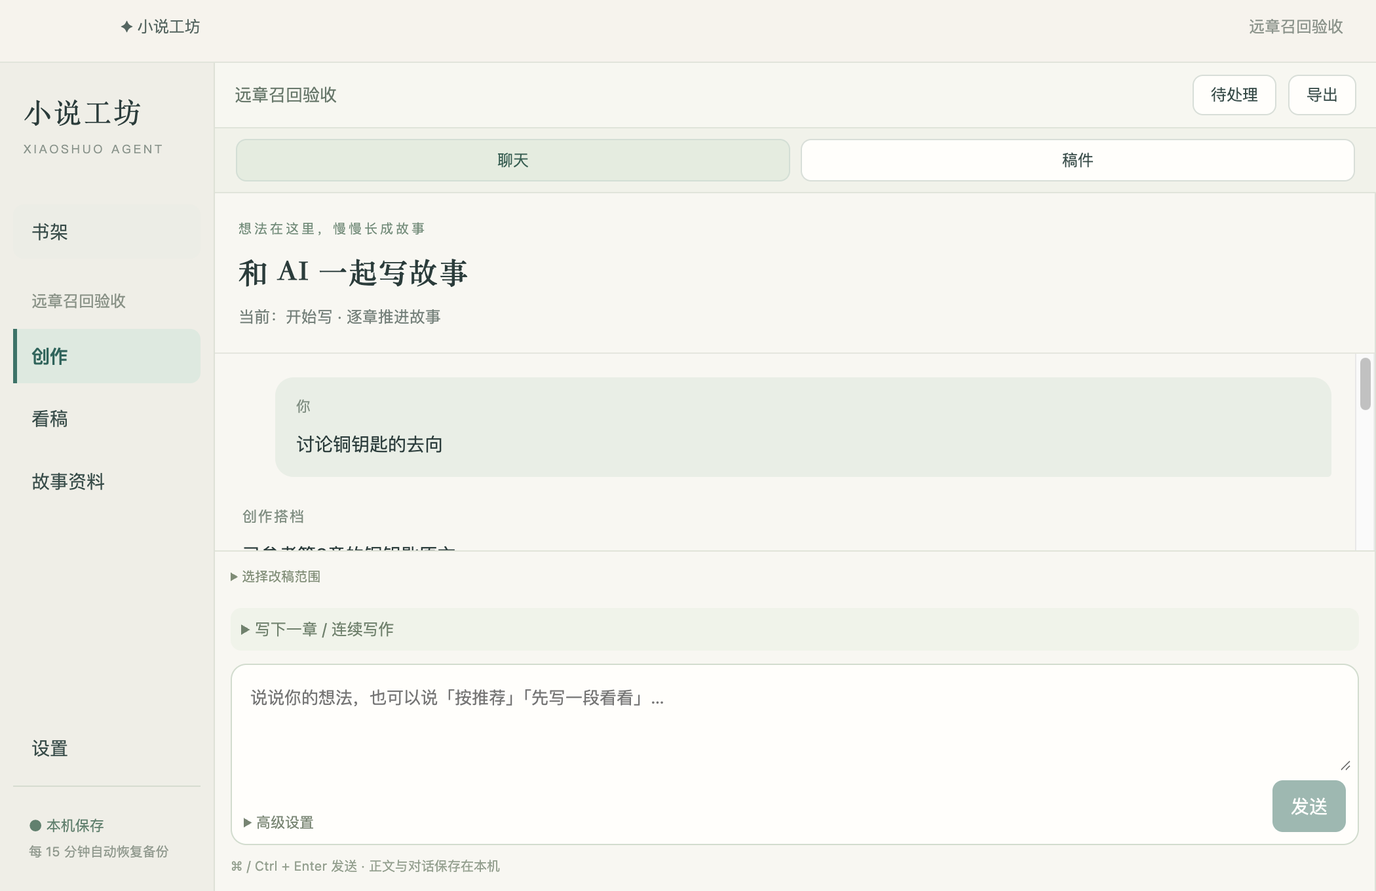
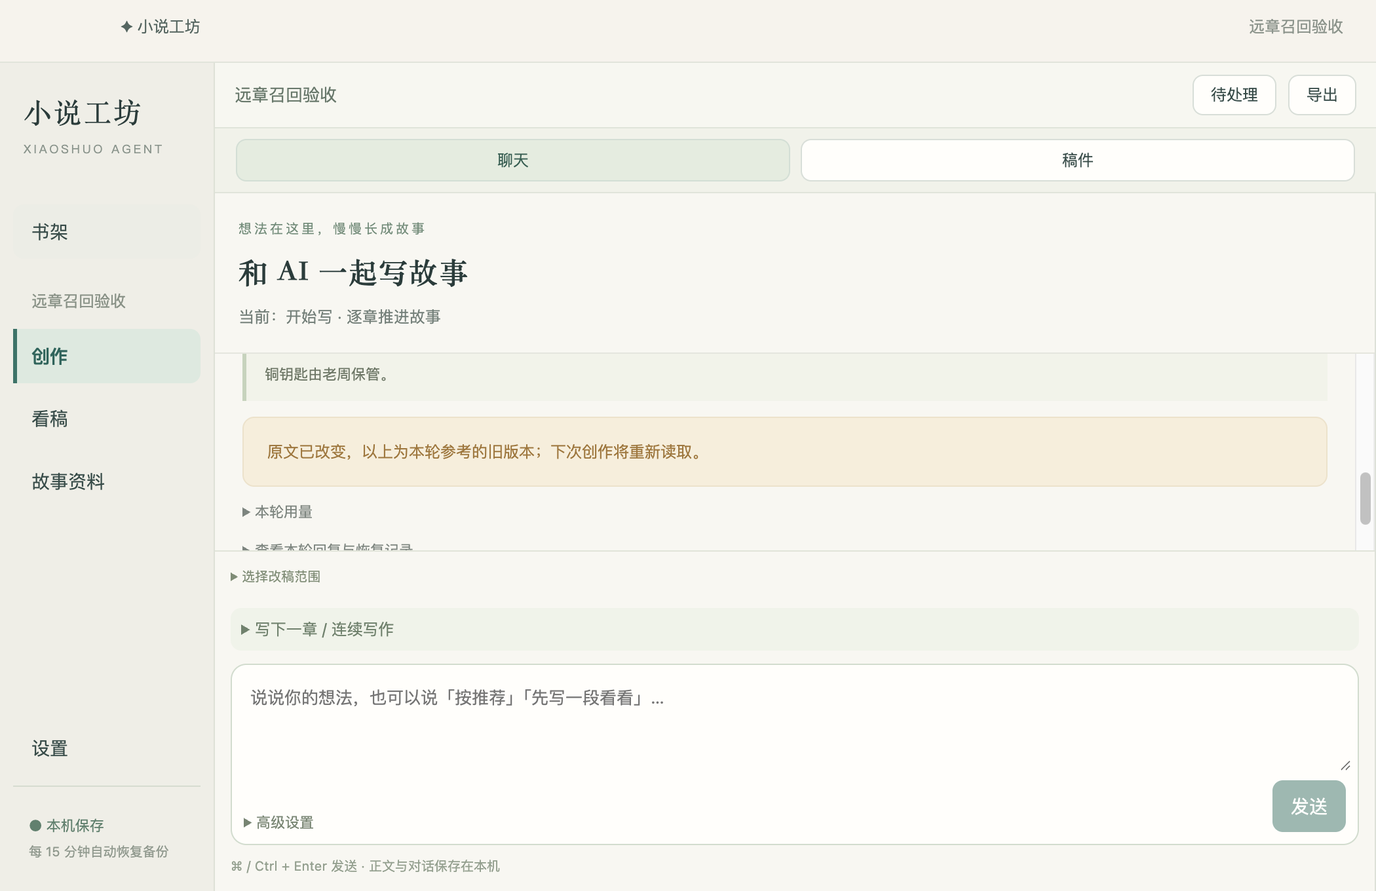
fix: enforce recall scope, evidence selection and request provenance

diff --git a/src/main/writing.ts b/src/main/writing.ts
@@ -1,3 +1,4 @@
+import type { RecallReference } from "../shared/recall";
 import { createHash, randomUUID } from "node:crypto";
 import { Annotation, END, START, StateGraph } from "@langchain/langgraph";
 import type { AppState, CommandResult, DomainCommand, ModelProfile, SourceRevision, TaskUsage } from "../shared/types";
@@ -166,12 +167,10 @@ export class WritingRunner {
     const all = state.chapters.filter(c => c.projectId === j.projectId).sort((a, b) => a.ordinal - b.ordinal);
     const selected = full ? all.filter(c => c.ordinal >= j.goal.startOrdinal && c.ordinal <= j.goal.endOrdinal)
       : ordinal ? all.filter(c => c.ordinal <= ordinal).slice(-4) : all.slice(-3);
-    const built = buildContext(state, j.projectId, { includeDraftIds: selected.map(c => c.id) }, selected.map(c => c.id), [], this.maxChars, true);
-    if (ordinal && !full) {
-      const query = [j.text, j.plan, ...all.filter(c => c.ordinal <= ordinal).slice(-2).map(c => c.content.slice(0,1200))].join("\n");
-      const recalled = buildContext(state, j.projectId, { includeDraftIds: selected.map(c=>c.id) }, selected.map(c=>c.id), [], this.maxChars, true, { query, beforeOrdinal:ordinal });
-      built.documents = recalled.documents;
-    }
+    const recall = ordinal && !full ? {
+      query:[j.text,j.plan,...all.filter(c=>c.ordinal<=ordinal).slice(-2).map(c=>c.content.slice(0,1200))].join("\n"), beforeOrdinal:ordinal,
+    } : undefined;
+    const built = buildContext(state,j.projectId,{includeDraftIds:selected.map(c=>c.id)},selected.map(c=>c.id),[],this.maxChars,true,recall);
     for (const doc of built.documents) if (doc.source.kind === "chapter") {
       const chapter = all.find(c => c.id === doc.source.id)!;
       // Display metadata is not manuscript evidence. Avoid duplicating an ordinal
@@ -195,10 +194,9 @@ export class WritingRunner {
       if (!full || kept?.text !== full.text) throw new WritingPause("本章全文超过本次上下文限制，已暂停，不能用截断原文改稿");
     }
     if (result.disclosures.length) this.update(j.id, { warnings: [...new Set([...this.job(j.id).warnings, ...result.disclosures])].slice(-100) });
-    if (context.documents.some(d=>d.reference)) this.update(j.id, { contextReferences:result.documents.flatMap(d=>d.reference ? [d.reference] : []) });
     return result;
   }
-  private async call(id: string, phase: string, input: unknown, instruction: string, maxTokens: number, signal: AbortSignal, check = false) {
+  private async call(id: string, phase: string, input: unknown, instruction: string, maxTokens: number, signal: AbortSignal, check = false, references: RecallReference[] = []) {
     for (let attempt = 0; attempt < 2; attempt++) {
       this.assertRunning(id, signal);
       const j = this.job(id), profile = this.profile(j, check);
@@ -224,7 +222,9 @@ export class WritingRunner {
       let result;
       try {
         result = await this.provider.complete({ baseUrl: profile.baseUrl, model: profile.model, key, messages, maxTokens, jsonResponse: true, maxAttempts: 1, signal,
-          onAttempt: () => { this.assertRunning(id, signal); const latest = this.job(id); this.update(id, { calls: latest.calls + 1, budgetUsed: latest.budgetUsed + reservation }); requested = true; } });
+          onAttempt: () => { this.assertRunning(id, signal); const latest = this.job(id); this.update(id, { calls: latest.calls + 1, budgetUsed: latest.budgetUsed + reservation,
+            ...(references.length ? {contextReferences:references,contextReferenceCall:{number:latest.calls+1,phase,...(typeof (input as any)?.ordinal === "number" ? {ordinal:(input as any).ordinal} : {})}} : {}),
+          }); requested = true; } });
       } catch (error) {
         settle(error instanceof ProviderError ? error.usage : undefined);
         if (attempt === 0 && error instanceof ProviderError && (error.code === "EMPTY" || error.transient && !error.partial) && !signal.aborted) continue;
@@ -266,7 +266,7 @@ export class WritingRunner {
     const source = this.context(j, progress.ordinal), context = this.bounded(j, source, existing?.content.trim() ? existing.id : undefined);
     this.update(id, { reply: `${revising ? "正在修订" : "正在写作"}第${progress.ordinal}章${revising ? `（第${progress.revisionRounds + 1}/2轮）` : ""}` });
     const raw = await this.call(id, revising ? "修订" : "生成", this.input(j, context, progress.ordinal),
-      '只返回JSON {"title":"章节标题","content":"本章完整正文","majorChange":false,"reason":""}。不套type/content外壳，不添加其他字段。只完成指定ordinal章节，不输出摘要或其他章节。content严格控制在wordLimit.min到wordLimit.max个字符内，汉字和标点都计数、空白不计；当前字数见wordLimit.current。字数上限较短时只展开本章最必要场景，超过上限的修订应删除冗余描写而非继续增加情节。修订时保留仍有效内容并解决pendingIssues，不擅自推翻已确认人设、主线和结局；必须变更时返回majorChange=true及具体reason，不输出改稿。', Math.min(32000, Math.max(1024, this.project(j.projectId).chapterWords * 3)), signal);
+      '只返回JSON {"title":"章节标题","content":"本章完整正文","majorChange":false,"reason":""}。不套type/content外壳，不添加其他字段。只完成指定ordinal章节，不输出摘要或其他章节。content严格控制在wordLimit.min到wordLimit.max个字符内，汉字和标点都计数、空白不计；当前字数见wordLimit.current。字数上限较短时只展开本章最必要场景，超过上限的修订应删除冗余描写而非继续增加情节。修订时保留仍有效内容并解决pendingIssues，不擅自推翻已确认人设、主线和结局；必须变更时返回majorChange=true及具体reason，不输出改稿。', Math.min(32000, Math.max(1024, this.project(j.projectId).chapterWords * 3)), signal, false, context.documents.flatMap(d=>d.reference ? [d.reference] : []));
     const result = parseObject(raw, ["title", "content", "majorChange", "reason"]); this.checkSources(source.sources); this.assertRunning(id, signal);
     if (result.majorChange) { this.update(id, { status: "awaiting-author", reply: String(result.reason) }); return; }
     if (typeof result.content !== "string" || !result.content.trim() || result.content.length > 200000 || typeof result.title !== "string" || !result.title.trim() || result.title.length > 200)
@@ -314,10 +314,9 @@ export class WritingRunner {
   private async inspect(id: string, context: BuiltContext, signal: AbortSignal, final: boolean) {
     const j = this.job(id);
     const references = context.documents.flatMap(d=>d.reference ? [d.reference] : []);
-    if (references.length) this.update(id,{contextReferences:[...new Map(references.map(r=>[r.source.id,r])).values()]});
     const input = { instruction: j.text, ordinal: final ? undefined : j.chapters[j.cursor]?.ordinal, context: context.text };
     const instruction = writingReviewInstruction + "\n将需要修改的本章/后出现章节的证据放在最后。方括号来源标记及紧接其后的章节索引说明是程序元数据，不是正文，不得作为quote或格式/文风问题；只引用下一行开始的正文。只依据context中带来源标记的原文独立检查，不引用计划或作者指令作为已发生事实，不依赖此前检查结论。篇幅由程序单独核验，不在这里输出length问题。";
-    const raw = await this.call(id, final ? "跨章复核" : "检查", input, instruction, 3000, signal, true);
+    const raw = await this.call(id, final ? "跨章复核" : "检查", input, instruction, 3000, signal, true, [...new Map(references.map(r=>[r.source.id,r])).values()]);
     this.checkSources(context.sources);
     try { return parseWritingReview(raw, context.documents); }
     catch (error) {

diff --git a/tests/writing.test.ts b/tests/writing.test.ts
@@ -6,7 +6,7 @@ import { join } from "node:path";
 import { createServer, type ServerResponse } from "node:http";
 import { AppServices } from "../src/main/services";
 import type { Command, CommandResult } from "../src/shared/types";
-import { chapter } from "./fixtures/recall-cases";
+import { chapter, meta } from "./fixtures/recall-cases";
 
 const cleanups: (() => Promise<void>)[] = [];
 afterEach(async () => { for (const fn of cleanups.splice(0).reverse()) await fn(); });
@@ -55,6 +55,35 @@ it("recall: continuous generation and chapter checks see distant evidence and re
   expect(calls.find(c=>c.phase.includes("连续写作·生成"))!.input.context).toContain("铜钥匙由老周保管。");
   expect(calls.filter(c=>c.phase.includes("连续写作·检查")).some(c=>c.input.context.includes("铜钥匙由老周保管。"))).toBe(true);
   expect(job.contextReferences?.[0]).toMatchObject({source:{id:"remote8",revision:1},excerpt:"铜钥匙由老周保管。"});
+  expect(job.contextReferenceCall?.phase).toBe("检查");
+  expect(job.contextReferenceCall?.ordinal).toBe(121);
+  expect(job.contextReferenceCall!.number).toBeLessThan(job.calls);
+});
+it("recall: filling a missing opening never treats later existing chapters as earlier facts", async () => {
+  const {app,projectId,calls,dir}=await setup();
+  const seed=new Store(join(dir,"works.sqlite"));
+  for(const n of [3,4]) seed.put("chapters",chapter(`later${n}`,n,"国王已死，未来暗号已经公开。".repeat(8),{projectId}));
+  seed.put("notes",{...meta,id:"future-knowledge",projectId,type:"knowledge",title:"未来知情记录",body:"王后已经登基，唯一秘密已经公开。",sources:[{kind:"chapter",id:"later3",revision:1}],needsReview:false});
+  seed.close();
+  await done(app,await start(app,projectId,"写完前五章"));
+  const opening=calls.find(c=>c.phase.includes("连续写作·生成")&&c.input.ordinal===1)!;
+  expect(opening.input.context).not.toContain("国王已死");
+  expect(opening.input.context).not.toContain("未来暗号已经公开");
+  expect(opening.input.context).not.toContain("王后已经登基");
+});
+it("recall: budget refusal leaves no audit reference for a request that was never sent", async () => {
+  const {app,projectId,calls,dir}=await setup((phase,_input,res)=>{
+    if(phase.includes("连续写作·规划")){reply(res,{plan:"铜钥匙后续目标。".repeat(1000),majorChange:false,reason:""});return true;}
+  });
+  const seed=new Store(join(dir,"works.sqlite"));
+  seed.put("chapters",chapter("old8",8,"铜钥匙由老周保管。",{projectId}));
+  for(const n of [117,118,119,120]) seed.put("chapters",chapter(`r${n}`,n,"雨落。",{projectId}));
+  seed.close();
+  const job=await done(app,await start(app,projectId,"接着写一章",8000));
+  expect(job.status).toBe("paused");
+  expect(calls).toHaveLength(1);
+  expect(calls[0].phase).toContain("连续写作·规划");
+  expect(job.contextReferences ?? []).toEqual([]);
 });
 it("fulfils a five-chapter goal with separate writes, chapter checks and a final review", async () => {
   const { app, projectId, calls } = await setup();

diff --git a/src/shared/writing.ts b/src/shared/writing.ts
@@ -51,6 +51,7 @@ export interface WritingJob extends RecordMeta {
   revisionJobIds: ID[];
   warnings: string[];
   contextReferences?: RecallReference[];
+  contextReferenceCall?: { number: number; phase: string; ordinal?: number };
   tokenBudget: number;
   budgetUsed: number;
   usage: TaskUsage | null;
@@ -135,7 +136,7 @@ function array(value: unknown, max: number): asserts value is any[] {
 }
 
 export function validateWritingJob(value: unknown): asserts value is WritingJob {
-  object(value, ["id", "revision", "createdAt", "updatedAt", "projectId", "profileId", "checkingProfileId", "text", "goal", "status", "phase", "chapters", "cursor", "plan", "planningDone", "reviewCursor", "reviewRounds", "reviewSourceDigest", "checkCursor", "checkSourceDigest", "checkIssues", "issues", "revisionJobIds", "warnings", "contextReferences", "tokenBudget", "budgetUsed", "usage", "calls", "reply", "error"]);
+  object(value, ["id", "revision", "createdAt", "updatedAt", "projectId", "profileId", "checkingProfileId", "text", "goal", "status", "phase", "chapters", "cursor", "plan", "planningDone", "reviewCursor", "reviewRounds", "reviewSourceDigest", "checkCursor", "checkSourceDigest", "checkIssues", "issues", "revisionJobIds", "warnings", "contextReferences", "contextReferenceCall", "tokenBudget", "budgetUsed", "usage", "calls", "reply", "error"]);
   for (const key of ["id", "projectId"]) string(value[key], 200);
   for (const key of ["profileId", "checkingProfileId"]) if (value[key] !== undefined) string(value[key], 200);
   integer(value.revision, 1);
@@ -174,6 +175,13 @@ export function validateWritingJob(value: unknown): asserts value is WritingJob 
   if (typeof value.planningDone !== "boolean") fail();
   if (value.status === "completed" && (value.phase !== "done" || !value.planningDone || value.cursor !== length || value.chapters.some(chapter => chapter.status !== "checked"))) fail();
   if (value.contextReferences !== undefined) validateRecallReferences(value.contextReferences);
+  if (value.contextReferenceCall !== undefined) {
+    object(value.contextReferenceCall,["number","phase","ordinal"]);
+    integer(value.contextReferenceCall.number,1,value.calls);
+    if (!["规划","生成","修订","检查","检查整理","跨章复核"].includes(value.contextReferenceCall.phase)) fail();
+    if(value.contextReferenceCall.ordinal!==undefined)integer(value.contextReferenceCall.ordinal,1);
+    if(!value.contextReferences?.length)fail();
+  }
   array(value.issues, 1000);
   if (value.checkIssues !== undefined) array(value.checkIssues, 1000);
   if (value.status === "completed" && value.issues.length) fail();

diff --git a/src/main/recall.ts b/src/main/recall.ts
@@ -33,14 +33,25 @@ export function recallPassages(state: AppState, projectId: string, options: Reca
   const hits: { score: number; reference: RecallReference }[] = [];
   for (const c of state.chapters) {
     if (c.projectId !== projectId || c.ordinal >= options.beforeOrdinal || c.status !== "confirmed" || c.needsReview || excluded.has(c.id)) continue;
-    const matches = [...terms].map(([term, weight]) => ({ term, weight, at: c.content.indexOf(term) })).filter(m => m.at >= 0);
-    if (!matches.length) continue;
+    // Bound work for repeated terms, while retaining both early and late occurrences.
+    const anchors = new Set<number>();
+    for (const term of terms.keys()) {
+      let at = c.content.indexOf(term);
+      for (let i=0; at>=0 && i<16; i++) {
+        anchors.add(at);
+        at=c.content.indexOf(term,at+term.length);
+      }
+      const last=c.content.lastIndexOf(term);
+      if(last>=0)anchors.add(last);
+    }
+    if (!anchors.size) continue;
     let best: { score: number; start: number; end: number; matchedTerms: string[] } | undefined;
-    for (const m of matches) {
-      const start = Math.max(0, m.at - 120), end = Math.min(c.content.length, start + 480);
-      const local = matches.filter(x => x.at >= start && x.at + x.term.length <= end);
-      const score = local.reduce((sum, x) => sum + x.weight, 0);
-      if (!best || score > best.score) best = { score, start, end, matchedTerms: local.map(x => x.term) };
+    for (const at of [...anchors].sort((a,b)=>a-b)) {
+      const start = Math.max(0, at - 120), end = Math.min(c.content.length, start + 480);
+      const excerpt=c.content.slice(start,end);
+      const local=[...terms].filter(([term])=>excerpt.includes(term));
+      const score=local.reduce((sum,[,weight])=>sum+weight,0);
+      if (!best || score > best.score) best = { score, start, end, matchedTerms: local.map(([term]) => term) };
     }
     if (!best) continue;
     hits.push({ score: best.score, reference: { source: { kind: "chapter", id: c.id, revision: c.revision }, ordinal: c.ordinal, title: c.title.slice(0, 200), start: best.start, end: best.end, excerpt: c.content.slice(best.start, best.end), matchedTerms: best.matchedTerms } });

diff --git a/src/main/conversation.ts b/src/main/conversation.ts
@@ -418,7 +418,8 @@ export class ConversationRunner {
     const { authoring: _authoring, ...projectFields } = p;
     const fullProject = add("作品", JSON.stringify(projectFields));
     add("创作共识（正文与最新作者指示优先）", memory);
-    const scopedChapters = chapters.filter(c => authorized.ids.has(c.id) || c.id === turn.chapterId);
+    const authorizedChapters = chapters.filter(c => authorized.ids.has(c.id));
+    const scopedChapters = authorizedChapters.length ? authorizedChapters : chapters.filter(c => c.id === turn.chapterId);
     const beforeOrdinal = scopedChapters.length ? Math.min(...scopedChapters.map(c => c.ordinal)) : (chapters.at(-1)?.ordinal ?? 0) + 1;
     const targets = [...new Set([
       ...authorized.ids,
@@ -459,7 +460,11 @@ export class ConversationRunner {
       )
         fullArtifacts.add(stage);
     }
-    for (const n of notes)
+    for (const n of notes) {
+      if (n.sources.some(ref=>ref.kind==="chapter" && chapters.some(c=>c.id===ref.id && c.ordinal>=beforeOrdinal))) {
+        warnings.push(`未使用当前位置之后的来源记录：${n.title}`);
+        continue;
+      }
       if (
         add(
           `资料 ${n.id} ${n.type} ${n.title}${n.needsReview ? "（待复核）" : ""}`,
@@ -467,6 +472,7 @@ export class ConversationRunner {
         )
       )
         fullNotes.add(n.id);
+    }
     add(
       "全书章节索引（未提供全文的章节不能回改）",
       JSON.stringify(

diff --git a/tests/conversation.test.ts b/tests/conversation.test.ts
@@ -163,6 +163,20 @@ it("recall: changing a remote source while the model is answering rejects the la
   expect(turn.status).toBe("failed");
   expect(app.snapshot().chapters.find(c=>c.id==="r120")!.content).toBe("雨落。");
 });
+it("recall: explicit later-chapter scope takes precedence over the editor's selected earlier chapter", async () => {
+  let prompt="";
+  const {app,projectId,dir}=await setup((body,res)=>{prompt=JSON.stringify(body.messages);reply(res,{message:"讨论完成"});});
+  const store=new Store(join(dir,"works.sqlite"));
+  store.put("chapters",chapter("remote8",8,"铜钥匙由老周保管。",{projectId}));
+  for(const n of [117,118,119,120]) store.put("chapters",chapter(`r${n}`,n,`近期${n}原文。`,{projectId}));
+  const runner=new ConversationRunner(store,new DomainService(store),new ChatProvider({retryDelayMs:1}));
+  legacyRunners.push({runner,store});
+  const turn=await done(app,runner.start({type:"conversation.send",projectId,text:"修改第120章，继续寻找铜钥匙",chapterId:"remote8"}));
+  expect(turn.status).toBe("completed");
+  expect(prompt).toContain("近期119原文。");
+  expect(prompt).toContain("铜钥匙由老周保管。");
+  expect(turn.contextReferences?.[0].source.id).toBe("remote8");
+});
 
 it("recovery: retries an empty response once and accounts for both requests", async () => {
   let calls = 0;

diff --git a/tests/fixtures/recall-cases.ts b/tests/fixtures/recall-cases.ts
@@ -11,6 +11,7 @@ export function state(chapters: Chapter[], notes: Note[] = []): AppState {
 
 export function recallCases() {
   return [
+    { name:"repeated-term-evidence", state:state([chapter("c8",8,"铜钥匙落满灰尘。"+"甲".repeat(600)+"老周一直在等待。"+"乙".repeat(600)+"铜钥匙被交到老周手中。"),chapter("c117",117,"雨停了。"),chapter("c118",118,"灯亮了。"),chapter("c119",119,"她进门。")]),query:"铜钥匙 老周",beforeOrdinal:120,relevant:["c8"],gold:{c8:"铜钥匙被交到老周手中。"} },
     { name: "remote-transfer", state: state([chapter("c8", 8, "阿宁把铜钥匙交给老周。"), chapter("c117", 117, "她望向窗外。"), chapter("c118", 118, "雨已经停了。"), chapter("c119", 119, "她走入大厅。")]), query: "铜钥匙在谁手中", beforeOrdinal: 120, relevant: ["c8"] },
     { name: "recent-and-remote", state: state([chapter("c8", 8, "铜钥匙交给老周。"), chapter("c117", 117, "阿宁回到旧城。"), chapter("c118", 118, "灯已经点亮。"), chapter("c119", 119, "老周收起铜钥匙。")]), query: "铜钥匙 老周", beforeOrdinal: 120, relevant: ["c8", "c119"] },
     { name: "irrelevant-control", state: state([chapter("c8", 8, "铜钥匙在老周手里。")]), query: "蓝宝石", beforeOrdinal: 120, relevant: [] },

diff --git a/src/renderer/writing-progress.tsx b/src/renderer/writing-progress.tsx
@@ -82,7 +82,8 @@ export function WritingProgress({ job, state, run, flush, otherBusy, openChapter
         {(job.usage?.totalTokens == null && job.budgetUsed > 0 || job.budgetUsed > (job.usage?.totalTokens ?? 0)) && <small>占用额度包含调用预留或未报告用量，续跑不会清零。</small>}
       </details>
       {job.reply && <p>{authorError(job.reply)}</p>}
-      <ContextReferences references={job.contextReferences} chapters={state.chapters} label="逐章参考的远章原文（最近一次）" />
+      <ContextReferences references={job.contextReferences} chapters={state.chapters} label="最近一次提供的远章原文"
+        description={job.contextReferenceCall ? `来自第${job.contextReferenceCall.number}次请求：${job.contextReferenceCall.phase}${job.contextReferenceCall.ordinal ? ` · 第${job.contextReferenceCall.ordinal}章` : ""}。当前任务进度可能已推进。` : "历史记录未注明对应请求。"} />
       {(job.error || error) && <p className="error" role="alert">{authorError(error || job.error || "")}</p>}
       {job.warnings.map((warning, index) => <p className="hint warn" key={index}>{warning}</p>)}
       {job.issues.length > 0 && <details className="writing-issues" open={job.status === "awaiting-author"}>

diff --git a/tests/recall.test.ts b/tests/recall.test.ts
@@ -5,6 +5,13 @@ import type { AppState, Chapter, Note } from "../src/shared/types";
 import { chapter, state, meta } from "./fixtures/recall-cases";
 
 describe("versioned remote chapter recall", () => {
+  it("selects later combined evidence instead of only the first mention of each keyword", () => {
+    const s=state([chapter("c8",8,"铜钥匙落满灰尘。"+"甲".repeat(600)+"老周一直在等待。"+"乙".repeat(600)+"铜钥匙被交到老周手中。")]);
+    const refs=recallPassages(s,"p",{query:"铜钥匙 老周",beforeOrdinal:120});
+    expect(refs).toHaveLength(1);
+    expect(refs[0].excerpt).toContain("铜钥匙被交到老周手中。");
+    expect(refs[0].matchedTerms).toContain("老周");
+  });
   it("finds the chapter-eight transfer beyond the recent window with exact original offsets", () => {
     const s = state([chapter("c8", 8, "雨落。".repeat(300) + "阿宁将铜钥匙交给老周。" + "灯亮。".repeat(300)), chapter("c119", 119, "阿宁走进大厅。")]);
     const result = recallPassages(s, "p", { query: "铜钥匙现在在谁手里", beforeOrdinal: 120, excludeChapterIds: ["c119"] });

diff --git a/src/main/context.ts b/src/main/context.ts
@@ -76,8 +76,8 @@ export function buildContext(
   if (draftIds.some((id) => !chapters.some((c) => c.id === id)))
     throw new DomainError("VALIDATION", "授权草稿不属于该作品");
   const maxOrdinal = targetChapters.length
-    ? Math.max(...targetChapters.map((c) => c.ordinal))
-    : Infinity;
+    ? Math.min(Math.max(...targetChapters.map((c) => c.ordinal)), recall?.beforeOrdinal ?? Infinity)
+    : recall?.beforeOrdinal ?? Infinity;
   const previous = chapters
     .filter((c) => c.ordinal < maxOrdinal && c.status === "confirmed")
     .slice(-3);
@@ -124,6 +124,10 @@ export function buildContext(
       !n.archived &&
       (!options.noteIds || options.noteIds.includes(n.id)),
   )) {
+    if (recall && n.sources.some(ref => ref.kind === "chapter" && chapters.some(c => c.id === ref.id && c.ordinal >= recall.beforeOrdinal))) {
+      disclosures.push(`未使用当前位置之后的来源记录：${n.title}`);
+      continue;
+    }
     if (n.needsReview || n.sources.some((ref) => !sourceCurrent(state, ref))) {
       disclosures.push(`未使用需要复核的记录：${n.title}`);
       continue;

diff --git a/src/renderer/context-references.tsx b/src/renderer/context-references.tsx
@@ -1,14 +1,16 @@
 import type { Chapter } from "../shared/types";
 import type { RecallReference } from "../shared/recall";
 
-export function ContextReferences({ references, chapters, label = "本次参考的远章原文" }: {
+export function ContextReferences({ references, chapters, label = "本次参考的远章原文", description }: {
   references?: RecallReference[];
   chapters: Pick<Chapter,"id"|"revision">[];
   label?: string;
+  description?: string;
 }) {
   if (!references?.length) return null;
   return <details className="chat-details" aria-label="远章原文出处">
     <summary>{label}</summary>
+    {description && <p className="muted">{description}</p>}
     <p className="muted">以下为本次调用实际参考的原文片段，不能代表已读或检查全书。</p>
     {references.map(ref=>{
       const current=chapters.find(c=>c.id===ref.source.id);

diff --git a/tests/e2e/recall.spec.ts b/tests/e2e/recall.spec.ts
@@ -48,6 +48,8 @@ test("authors can inspect actual remote evidence, see changed sources and reopen
     await page.getByText("本次参考的远章原文",{exact:true}).click();
     await app.evaluate(({BrowserWindow})=>BrowserWindow.getAllWindows()[0].setSize(1050,680));
     await expect(page.getByLabel("远章原文出处")).toContainText("原文已改变");
+    await page.getByLabel("远章原文出处").getByText(/原文已改变/).scrollIntoViewIfNeeded();
+    await expect(page.getByLabel("远章原文出处").getByText(/原文已改变/)).toBeVisible();
     expect(calls).toBe(1);
     await page.screenshot({path:"docs/screenshots/context-recall-narrow-20261013.png"});
   } finally {await new Promise<void>(r=>{server.closeAllConnections();server.close(()=>r());});}
